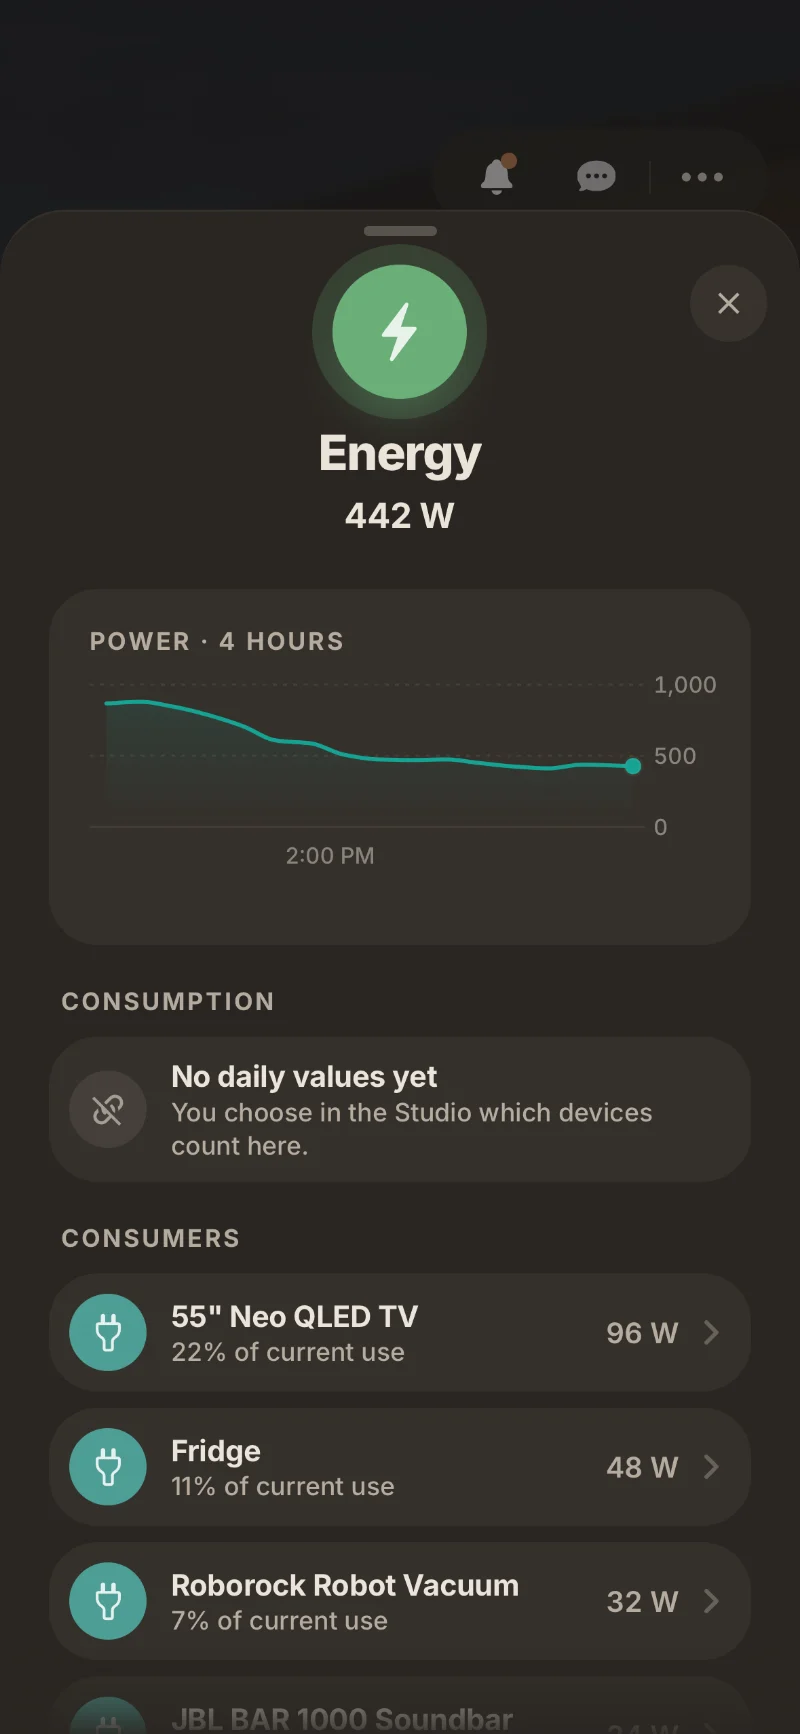
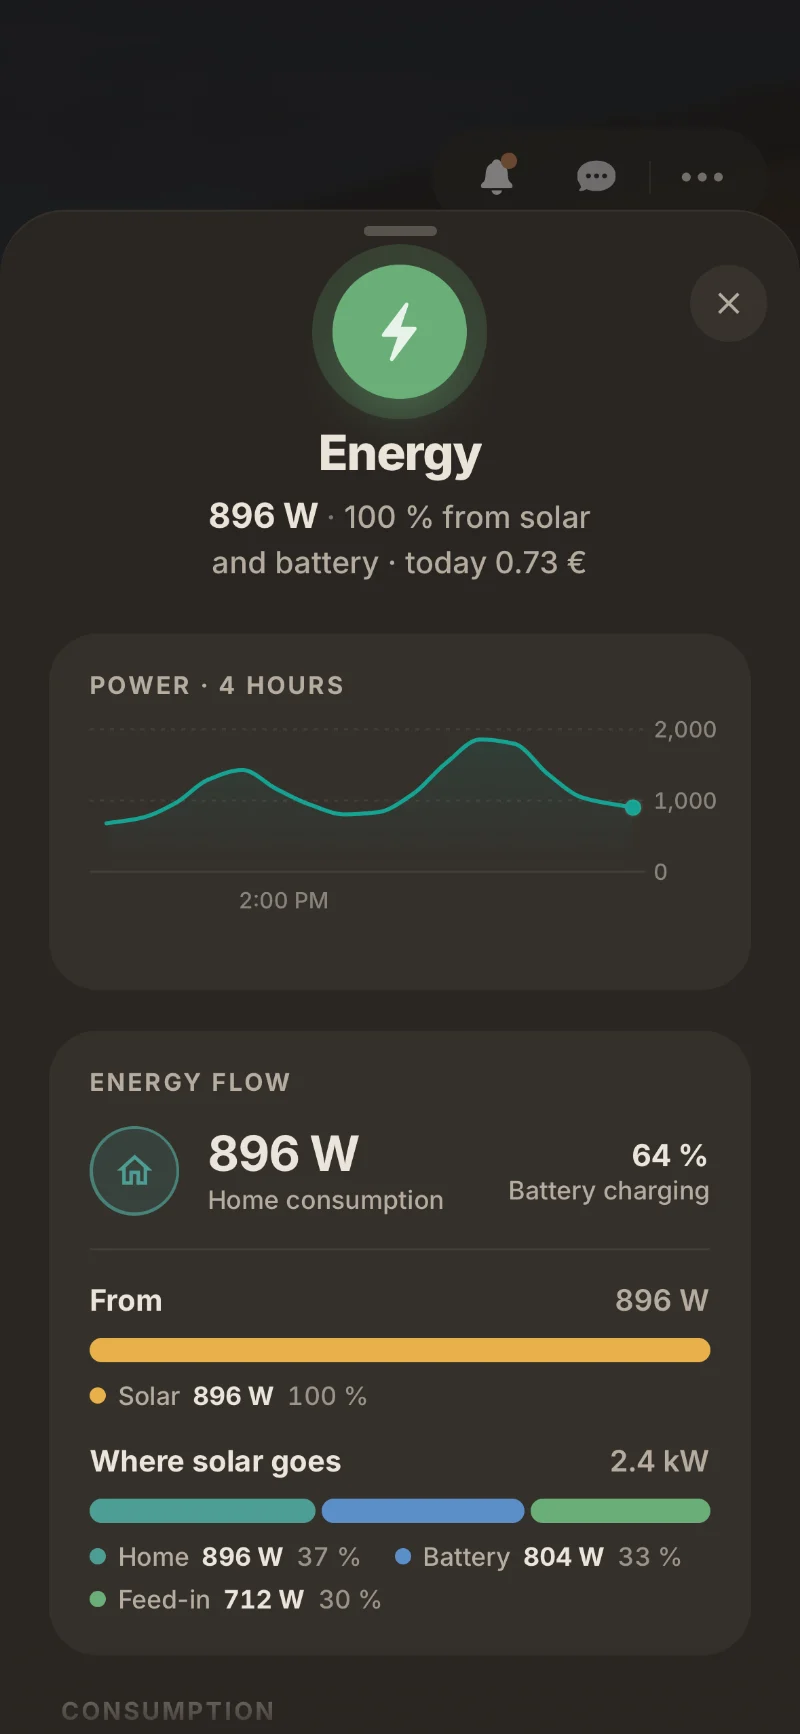
Demo-Haus: Energie-Popup mit Solar, Hausakku und Netz
Das Demo-Haus zeigt eine mittägliche Lage: Solar 2,4 kW, Haus 896 W, Akku lädt 804 W
(64 %), 712 W gehen ins Netz. demo_fixture.py setzt die Werte und neutrale englische
Namen (Home Battery, Energy Meter, Solar System), gefunden über Übersetzungsschlüssel
und Zählernamen statt IDs. Mit --dashboards trägt es die Solar-Variablen in die
Energie-Kachel der Demo-Dashboards ein (wegwerf-ha.sh und haus.sh rufen das im Zustand
demo auf). Der Mock kennt für Tageskurven now_hour (Start gilt als 13 Uhr) und anchor,
damit die Leistungskurve unabhängig von der Uhrzeit den Vormittag zeigt.
Energie-Bilder für README und Website neu, Alt-Texte und Unterschriften angepasst.

diff --git a/docs/index.html b/docs/index.html
@@ -402,10 +402,10 @@ html[lang="de"] .en, html[lang="en"] .de { display: none !important; }
           <div class="shot">
             <picture>
               <source media="(prefers-color-scheme: dark)" srcset="images/site-popup-energy-dark.webp">
-              <img src="images/site-popup-energy-light.webp" width="1600" height="1000" loading="lazy" alt="The energy popup on a desktop display: current power, a chart of the last hours and the biggest consumers right now.">
+              <img src="images/site-popup-energy-light.webp" width="1600" height="1000" loading="lazy" alt="The energy popup on a desktop display: 896 W in use, all of it from solar, 2.4 kW of solar power split between home, home battery and grid, usage today and this month and the biggest consumers.">
             </picture>
           </div>
-          <figcaption class="cap"><span class="en">Power now, and the devices that use the most.</span><span class="de">Leistung jetzt, und welche Geräte am meisten brauchen.</span></figcaption>
+          <figcaption class="cap"><span class="en">Where your power comes from, where the solar goes, and the devices that use the most.</span><span class="de">Woher der Strom kommt, wohin der Solarstrom geht, und welche Geräte am meisten brauchen.</span></figcaption>
         </figure>
         <figure>
           <div class="shot">

diff --git a/dev/demo/demo_fixture.py b/dev/demo/demo_fixture.py
@@ -3,6 +3,7 @@
 der Mock-Fixture (dev/casora_mock/fixture.json, nicht im Repo) per Wörterbuch.
 
     python3 dev/demo/demo_fixture.py <ziel/fixture.json>
+    python3 dev/demo/demo_fixture.py --dashboards <config>   Solar-Variablen der Energie-Kachel
 
 Entitäts-IDs bleiben, nur Anzeigenamen ändern sich. Wörter ohne Eintrag bleiben stehen –
 für Screenshots zählen nur die sichtbaren Räume und Geräte.
@@ -165,6 +166,137 @@ def demo_power(d):
                      "icon": None, "device_class": "power", "unit": "W", "hidden": False, "entity_category": None})
 
 
+# Solar und Hausakku: das Demo-Haus zeigt eine mittägliche Lage wie ein echtes Haus mit
+# Balkon-/Dachanlage und Akku. Solar 2,4 kW, Haus 0,9 kW, Akku lädt 0,8 kW (64 %), der Rest
+# (0,7 kW) geht ins Netz. Gefunden wird ohne IDs: Geräte-Sensoren über den Übersetzungsschlüssel,
+# Tageszähler über ihren Namen. Namen werden englisch und neutral („Home Battery“ statt Produkt).
+SOLAR_DEVICE = {"Solarbank 3 E2700 Pro": "Home Battery", "Smart Meter": "Energy Meter", "System Home": "Solar System"}
+# (translation_key, neuer Name, Wert) – gilt für alle Geräte aus SOLAR_DEVICE
+SOLAR_KEYS = [
+    ("input_power", "Solar Power", "2412"), ("solarbank_input_power", "Solar Power", "2412"),
+    ("solar_power_1", "Solar String 1", "1236"), ("solar_power_2", "Solar String 2", "1176"),
+    ("solar_power_3", "Solar String 3", "0"), ("solar_power_4", "Solar String 4", "0"),
+    ("bat_charge_power", "Battery Charging", "804"), ("bat_discharge_power", "Battery Discharging", "0"),
+    ("battery_power_signed", "Battery Power", "804"), ("solarbank_battery_power_signed", "Battery Power", "804"),
+    ("state_of_charge", "Battery Level", "64"),
+    ("battery_energy", "Battery Energy", "1720"), ("battery_status", "Battery Status", "charging"),
+    ("home_load_power", "Home Load", "896"), ("ac_to_home_load", "Output", "1608"),
+    ("dc_output_power", "DC Output", "1608"), ("solarbank_output_power", "Output", "1608"),
+    ("grid_to_home_power", "Grid Import", "0"), ("photovoltaic_to_grid_power", "Grid Export", "712"),
+    ("grid_power_signed", "Grid Power", "-712"), ("grid_to_battery_power", "Grid Charging", "0"),
+    ("charging_status_desc", "Operating State", "charge_bypass"), ("err_code", "Error Code", "0"),
+    ("temperature", "Temperature", "31"), ("allow_grid_export", "Allow Grid Export", "on"),
+    ("grid_export_limit", "Grid Export Limit", "800"),
+]
+# (Name der Testhaus-Fixture, neuer Name, Wert) – Tages- und Monatszähler, Kosten
+SOLAR_NAMES = [
+    ("Hausbedarf Heute", "Home Usage Today", "5.84"), ("Hausbedarf Monat", "Home Usage This Month", "214.6"),
+    ("Solarertrag Heute", "Solar Today", "9.62"), ("Solarertrag Monat", "Solar This Month", "248.3"),
+    ("Netzbezug Heute", "Grid Import Today", "1.92"), ("Netzbezug Monat", "Grid Import This Month", "96.4"),
+    ("Battery Entladen Heute", "Battery Discharge Today", "2.14"),
+    ("Battery Entladen Monat", "Battery Discharge This Month", "61.7"),
+    ("Stromkosten Heute", "Energy Cost Today", "0.73"), ("Stromkosten Monat", "Energy Cost This Month", "36.65"),
+]
+# Tageskurven, als wäre beim Start 13 Uhr (now_hour) – die Bilder zeigen immer die Mittagslage.
+# Haus: Spitzen morgens, vormittags, beim Kochen und abends, endet beim Wert der Fixture.
+# Solar und Akkustand mit „anchor“: False – reine Tagesform (Solar-Buckel etwa 7 bis 19 Uhr).
+SOLAR_HISTORY = {
+    "home_load_power": {"base": 850, "wave": 40, "noise": 18, "digits": 0, "min": 150, "now_hour": 13,
+                        "day": 420, "peak": 14, "bumps": [[7.4, 600, 0.6], [10.1, 700, 0.45], [12.0, 1100, 0.5], [19.2, 700, 1.3]]},
+    "input_power": {"base": -260, "noise": 40, "digits": 0, "min": 0, "anchor": False, "now_hour": 13,
+                    "bumps": [[13.0, 2900, 3.3]]},
+    "state_of_charge": {"base": 10, "digits": 0, "min": 8, "max": 100, "anchor": False, "now_hour": 13,
+                        "bumps": [[16.0, 85, 4.2]]},
+}
+
+
+def demo_solar(d):
+    ents, hist = d["entities"], d.setdefault("_history", {})
+    keys = {k: (n, v) for k, n, v in SOLAR_KEYS}
+    names = {k: (n, v) for k, n, v in SOLAR_NAMES}
+    dev_name = {x["key"]: SOLAR_DEVICE[x["name"]] for x in d["devices"] if x.get("name") in SOLAR_DEVICE}
+    for x in d["devices"]:
+        if x.get("name") in SOLAR_DEVICE:
+            x["name"] = x["model"] = SOLAR_DEVICE[x["name"]]
+            x["manufacturer"] = "Demo"
+    for e in ents:
+        a = e.get("attributes") or {}
+        if e.get("device") in dev_name:
+            a.pop("attribution", None)
+            hit = keys.get(e.get("translation_key"))
+            # Alle Namen des Geräts neutral: „Home Battery …“ statt Produktname.
+            short = hit[0] if hit else (e.get("original_name") or "")
+            if "friendly_name" in a:
+                a["friendly_name"] = (dev_name[e["device"]] + " " + short).replace("Battery Battery", "Battery").strip()
+            if hit:
+                e["original_name"] = short
+                e["state"] = hit[1]
+            if dev_name[e["device"]] == "Home Battery" and e["entity_id"].startswith("sensor.") \
+                    and e.get("translation_key") in SOLAR_HISTORY:
+                hist[e["entity_id"]] = SOLAR_HISTORY[e["translation_key"]]
+            elif e["entity_id"] in hist and e.get("translation_key") == "home_load_power":
+                hist.pop(e["entity_id"])  # Kurve aus demo_power nur einmal (am Akku)
+        elif a.get("friendly_name") in names:
+            n, v = names[a["friendly_name"]]
+            a["friendly_name"] = e["original_name"] = n
+            e["state"] = v
+
+
+# Energie-Kachel des Demo-Dashboards: Variablen wie im Studio unter „Solar and battery“.
+# Rolle → (Gerät, translation_key) oder Name des Zählers; aufgelöst in der erzeugten Fixture.
+ENERGY_TILE = {
+    "entity_power": ("Home Battery", "home_load_power"),
+    "entity_solar_power": ("Home Battery", "input_power"),
+    "entity_battery_power": ("Home Battery", "battery_power_signed"),
+    "entity_battery_soc": ("Home Battery", "state_of_charge"),
+    "entity_netz_power": ("Energy Meter", "grid_to_home_power"),
+    "entity_grid_export": ("Energy Meter", "photovoltaic_to_grid_power"),
+    "entity_usage_today": "Home Usage Today", "entity_usage_month": "Home Usage This Month",
+    "entity_cost_today": "Energy Cost Today", "entity_cost_month": "Energy Cost This Month",
+    "entity_solar_today": "Solar Today", "entity_battery_today": "Battery Discharge Today",
+    "entity_netz_today": "Grid Import Today",
+}
+
+
+def demo_dashboards(cfg):
+    """Trägt die Solar-Variablen in die Energie-Kacheln der Demo-Dashboards ein (.storage)."""
+    fx = json.load(open(os.path.join(cfg, "custom_components", "casora_mock", "fixture.json"), encoding="utf-8"))
+    devs = {x["key"]: x.get("name") for x in fx["devices"]}
+    var = {}
+    for role, m in ENERGY_TILE.items():
+        for e in fx["entities"]:
+            if not e["entity_id"].startswith("sensor."):
+                continue
+            if (isinstance(m, tuple) and devs.get(e.get("device")) == m[0] and e.get("translation_key") == m[1]) \
+                    or (isinstance(m, str) and (e.get("attributes") or {}).get("friendly_name") == m):
+                var[role] = e["entity_id"]
+                break
+    if "entity_power" not in var:
+        print("Energie-Kachel: kein Hausverbrauch in der Fixture", file=sys.stderr)
+        return
+    n = 0
+    for name in ("lovelace.home_dashboard", "lovelace.home_dashboard_mobile"):
+        p = os.path.join(cfg, ".storage", name)
+        if not os.path.exists(p):
+            continue
+        d = json.load(open(p, encoding="utf-8"))
+
+        def walk(o):
+            nonlocal n
+            if isinstance(o, dict):
+                if o.get("template") == "casora_energy" and o.get("entity") == var["entity_power"]:
+                    o.setdefault("variables", {}).update(var)
+                    n += 1
+                for v in o.values():
+                    walk(v)
+            elif isinstance(o, list):
+                for v in o:
+                    walk(v)
+        walk(d)
+        json.dump(d, open(p, "w", encoding="utf-8"), ensure_ascii=False, indent=2)
+    print("Energie-Kacheln mit Solar:", n, "·", len(var), "Variablen")
+
+
 # Kurvenform je Messgröße für einzelne Sensoren (Grundwert = aktueller Wert). Bodenfeuchte bleibt
 # ohne Kurve: das tägliche Auf und Ab wirkte künstlich.
 ROOM_CURVES = {
@@ -283,6 +415,9 @@ def enliven(d):
 
 
 def main():
+    if sys.argv[1] == "--dashboards":
+        demo_dashboards(sys.argv[2])
+        return
     dst = sys.argv[1]
     d = json.load(open(SRC, encoding="utf-8"))
     d["areas"] = [AREAS.get(a, a) for a in d["areas"]]
@@ -300,6 +435,7 @@ def main():
             a["friendly_name"] = tr(a["friendly_name"])
     enliven(d)
     demo_power(d)
+    demo_solar(d)
     # Merker für den Mock: im Demo-Haus keine deutschen Testgeräte (Waschmaschinen A/B, Testbecken).
     d["_demo"] = True
     text = json.dumps(d, ensure_ascii=False)

diff --git a/dev/casora_mock/__init__.py b/dev/casora_mock/__init__.py
@@ -326,7 +326,9 @@ class CasoraMock:
     #   {"sensor.x": {"base": 21.5, "day": 0.9, "peak": 16, "wave": 0.25, "noise": 0.05,
     #                 "bumps": [[7.5, 6, 0.7]], "digits": 1}}
     # day: Tagesschwankung um base (Höchstwert zur Stunde peak), wave: langsame Welle,
-    # bumps: [Stunde, Höhe, Breite in h] (z. B. Duschen am Morgen), noise: Rauschen.
+    # bumps: [Stunde, Höhe, Breite in h] (z. B. Duschen am Morgen), noise: Rauschen,
+    # anchor: False = nicht beim Wert der Fixture enden (Solar soll nachts nicht hochrutschen).
+    # now_hour: 13 = der Start gilt als 13 Uhr – die letzten Stunden zeigen immer den Vormittag.
     # Ohne „_history“ (Testhaus) entsteht die Kurve automatisch je Messgröße (_auto_history), dazu
     # 30 Tage Langzeitstatistik (Stundenmittel, Zählerstände) für 7/30-Tage-Diagramme und Tagesbalken.
     def _auto_history(self) -> dict:
@@ -374,8 +376,12 @@ class CasoraMock:
         def curve(eid: str, cfg: dict):
             rnd = random.Random(eid)
             def raw(ts: float) -> float:
-                h = dt_util.as_local(dt_util.utc_from_timestamp(ts))
-                hour = h.hour + h.minute / 60
+                if cfg.get("now_hour") is not None:
+                    # Uhrzeit relativ zum Start: „jetzt“ ist now_hour (Demo-Bild unabhängig von der Uhr).
+                    hour = (cfg["now_hour"] + (ts - boot) / 3600) % 24
+                else:
+                    h = dt_util.as_local(dt_util.utc_from_timestamp(ts))
+                    hour = h.hour + h.minute / 60
                 v = cfg.get("base", 0) + cfg.get("day", 0) * math.cos(2 * math.pi * (hour - cfg.get("peak", 15)) / 24)
                 v += cfg.get("wave", 0) * math.sin(2 * math.pi * ts / (4.7 * 3600))
                 for at, height, width in cfg.get("bumps", []):
@@ -386,7 +392,8 @@ class CasoraMock:
                 end = float(self.store[eid][0])
             except (KeyError, TypeError, ValueError):
                 end = raw(boot)
-            shift = end - raw(boot)
+            # „anchor“: False – Kurve in Tagesform (z. B. Solar), nicht auf den aktuellen Wert verschoben.
+            shift = end - raw(boot) if cfg.get("anchor", True) else 0.0
             lo, hi = cfg.get("min"), cfg.get("max")
             out = []
             for ts in range(int(boot - span), int(boot), step):

diff --git a/README.md b/README.md
@@ -57,9 +57,9 @@ Casora recognises robot vacuums, washers and dryers, dishwashers, 3D printers, h
 <p align="center">
   <picture>
     <source media="(prefers-color-scheme: dark)" srcset="docs/images/readme-popups2-dark.webp" />
-    <img src="docs/images/readme-popups2-light.webp" alt="The energy popup on a desktop display and on a phone: power right now, a chart of the last hours, where the power comes from and the biggest consumers." />
+    <img src="docs/images/readme-popups2-light.webp" alt="The energy popup on a desktop display and on a phone: the home uses 896 W, all of it from solar, while 2.4 kW of solar power goes to the home, the home battery and the grid. Below, usage today and this month and the biggest consumers." />
   </picture>
-  <br/><sub><b>Energy at a glance.</b> Power right now, where it comes from, where the solar power goes and which devices use the most.</sub>
+  <br/><sub><b>Energy at a glance.</b> Power right now, where it comes from, how the solar power splits between home, battery and grid, and which devices use the most.</sub>
 </p>
 
 <p align="center">
